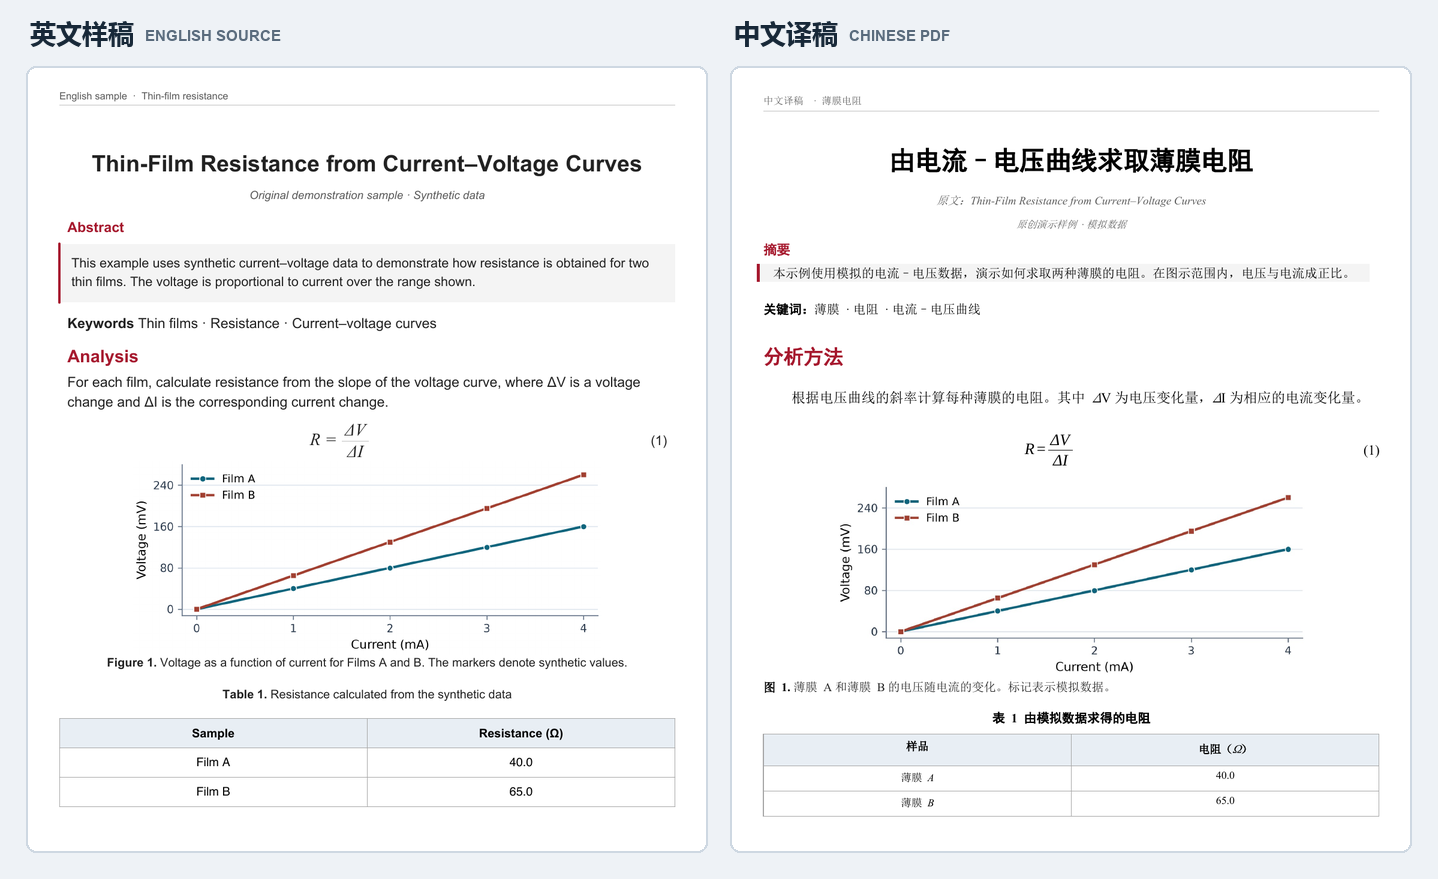
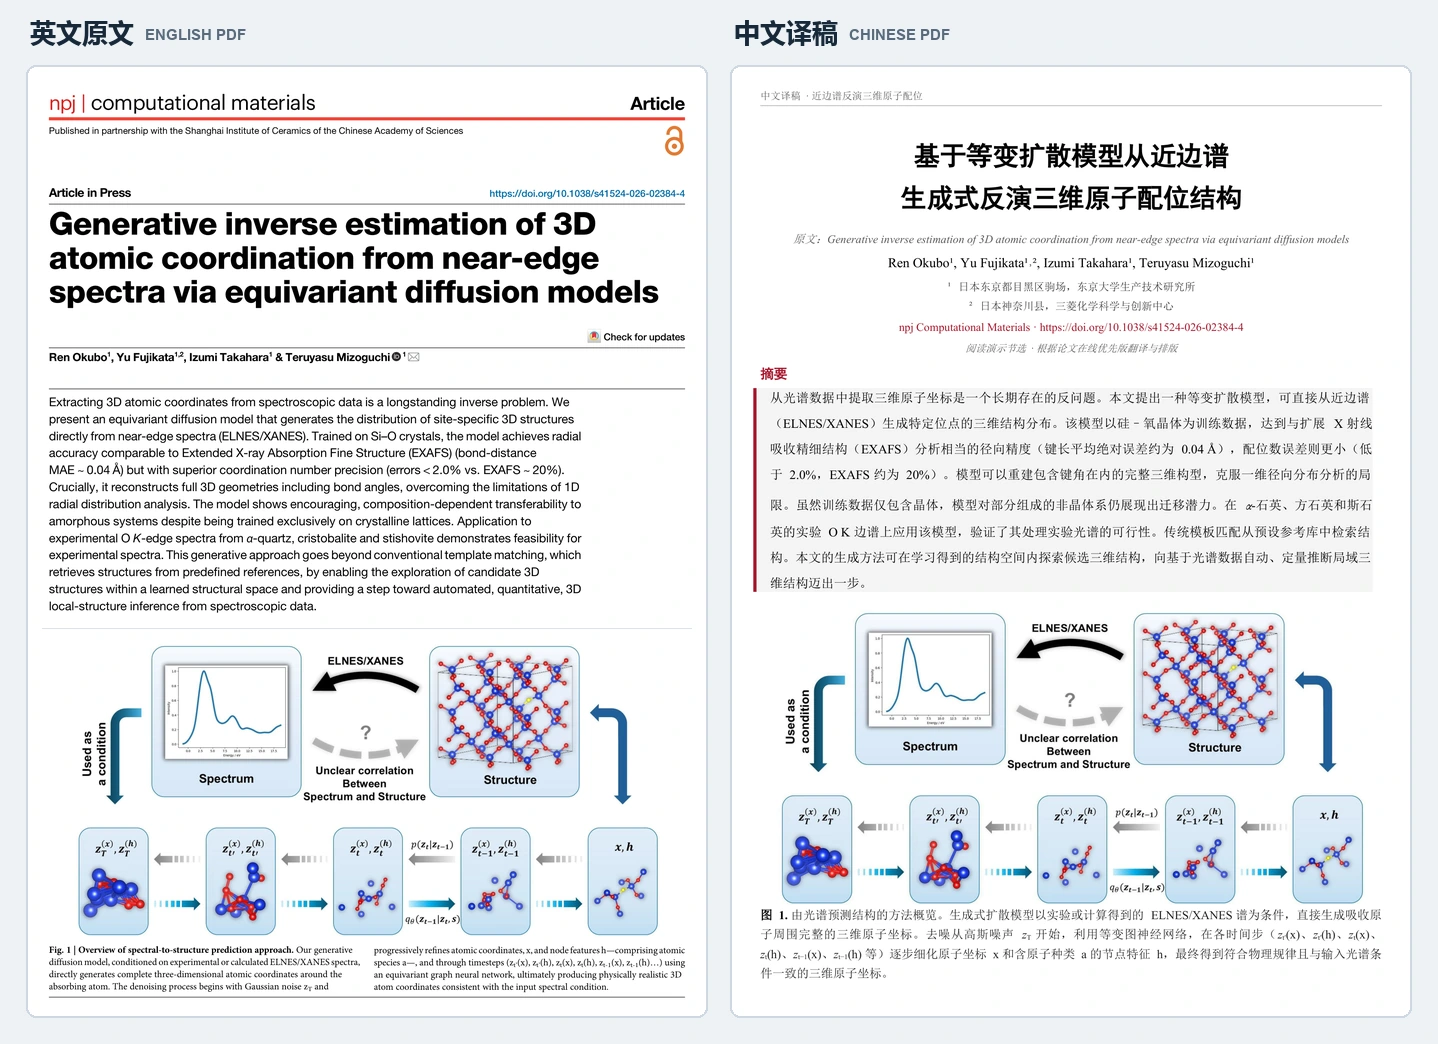
docs: demo the Okubo et al. paper translation

Changed region(s): [[0.0, 0.0, 0.4896, 0.9829], [0.5202, 0.1229, 0.9791, 0.9829], [0.5202, 0.0, 0.9791, 0.1229]]

diff --git a/README_EN.md b/README_EN.md
@@ -4,9 +4,11 @@ Translate English academic papers or supporting-information PDFs into a **search
 
 ## Example output
 
-![English sample PDF and Chinese translation side by side, showing the retained figure, translated caption, equation, and table](docs/demo/translation-preview.webp)
+![English and Chinese PDF excerpts from Okubo et al. shown side by side](docs/demo/translation-preview.webp)
 
-The original English sample is on the left. The Chinese A4 PDF exported by this workflow is on the right. The body and caption are translated, the original figure and its English labels are retained, and the equation and table are rebuilt. Text in the exported PDF is searchable and selectable.
+The English paper excerpt is on the left. The Chinese excerpt is on the right, translated, typeset, and exported as an A4 PDF using this workflow. Text in the exported PDF is searchable and selectable.
+
+The source paper is by Ren Okubo, Yu Fujikata, Izumi Takahara, and Teruyasu Mizoguchi, published in *npj Computational Materials* (2026). [Original article and DOI](https://www.nature.com/articles/s41524-026-02384-4) · [CC BY 4.0](https://creativecommons.org/licenses/by/4.0/)
 
 ## Features
 

diff --git a/README.md b/README.md
@@ -4,9 +4,11 @@
 
 ## 效果演示
 
-![英文示例 PDF 和中文译稿并排对照，展示原图、中文图注、公式与表格](docs/demo/translation-preview.webp)
+![Okubo 等人的论文英文原文与中文 PDF 译稿并排对照](docs/demo/translation-preview.webp)
 
-左侧为自制英文示例，右侧为使用本项目流程导出的中文 A4 PDF。正文和图注译为中文，保留原图及图内英文标注，并重建公式和表格。截图用于展示版式，中文 PDF 的正文可搜索和选中。
+左侧为英文论文节选，右侧为使用本项目流程翻译、重新排版并导出的中文 A4 PDF 节选。导出的中文文字可搜索和选中。
+
+原文为 Ren Okubo、Yu Fujikata、Izumi Takahara 和 Teruyasu Mizoguchi 发表于 *npj Computational Materials* 的论文（2026）。[原文与 DOI](https://www.nature.com/articles/s41524-026-02384-4) · [CC BY 4.0](https://creativecommons.org/licenses/by/4.0/)
 
 ## 适合用它做什么
 
